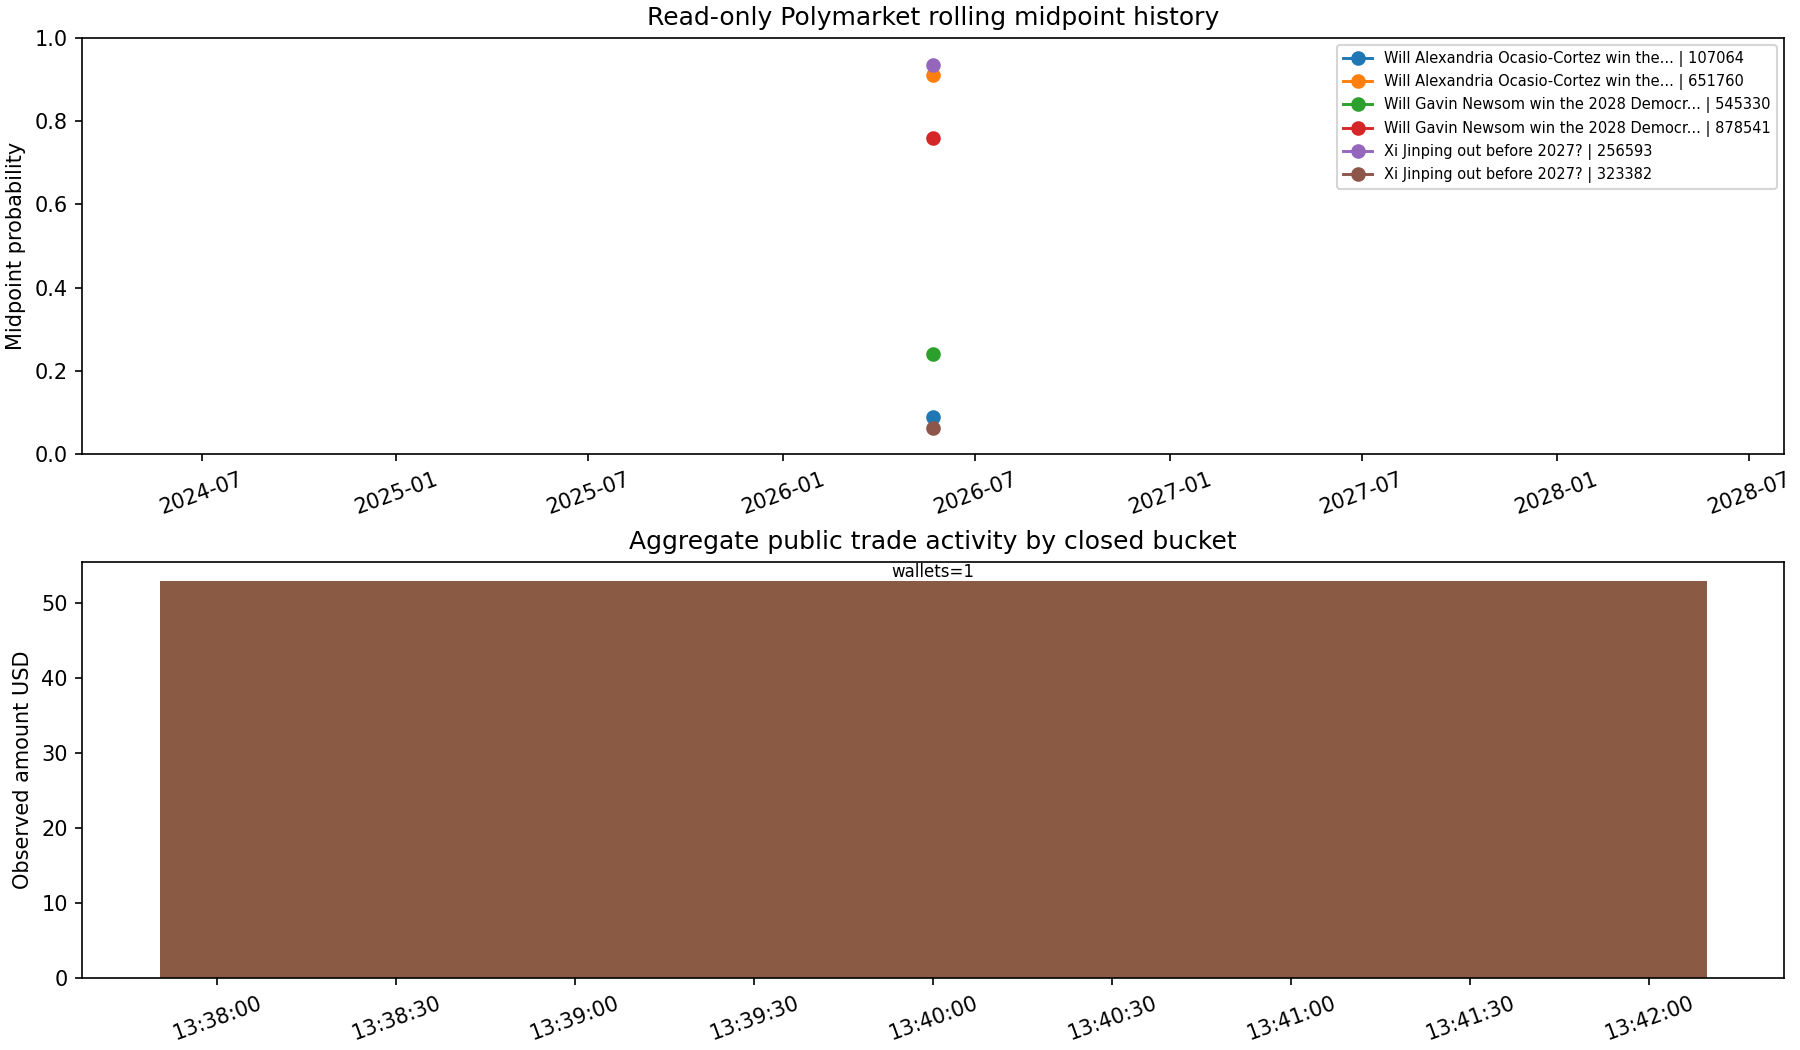
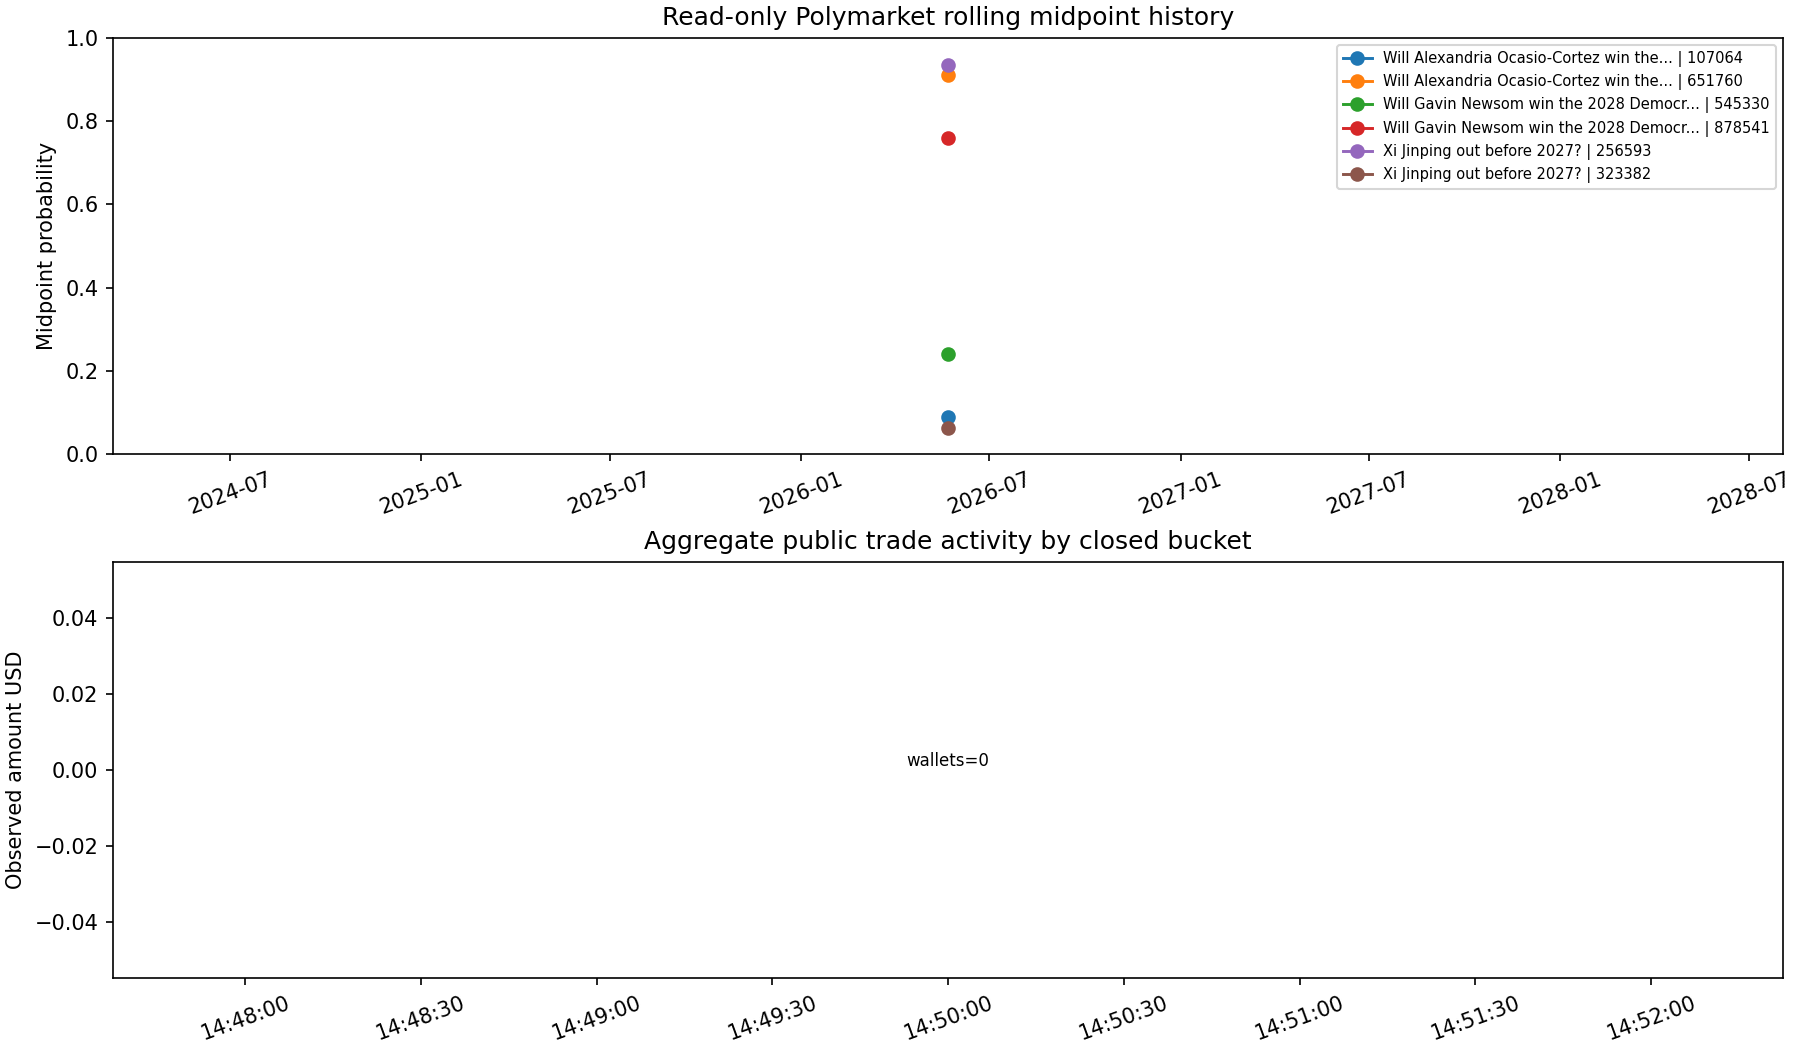
data: collect curated polymarket rolling baseline sample

diff --git a/STATUS.md b/STATUS.md
@@ -3,7 +3,7 @@
 <!-- PROJECT_STATUS:START -->
 ## Automation Snapshot
 
-Generated: 2026-05-22 16:49
+Generated: 2026-05-22 16:52
 
 Current goal: `goal-polymarket-curated-rolling-baseline-001` - Collect curated Polymarket rolling history for baseline readiness
 
@@ -11,63 +11,55 @@ Current roadmap phase: Phase 10: Politics/Geo Anomaly Monitor Prototype
 
 Test status: PASS
 
-Pytest summary: `270 passed in 16.85s`
+Pytest summary: `270 passed in 13.23s`
 
 Git branch: `main`
 
-Latest commit: `232bbf5`
+Latest commit: `540ef12`
 
 Git status:
 
 ```text
  M GOAL.md
  M ROADMAP.md
- M data/results/monitor_v2_live_alert_rows.csv
- M data/results/monitor_v2_live_alert_summary.csv
- M data/results/monitor_v2_live_scoring_metadata.json
- M data/results/monitor_v2_live_scoring_snapshots.csv
- M data/results/monitor_v2_live_scoring_validation_report.json
  M data/results/monitor_v2_polymarket_live_collection_metadata.json
- M data/results/monitor_v2_polymarket_live_figure_metadata.json
  M data/results/monitor_v2_polymarket_live_input_validation_report.json
  M data/results/monitor_v2_polymarket_live_market_snapshots.csv
- M data/results/monitor_v2_polymarket_live_snapshot.png
  M data/results/monitor_v2_polymarket_live_wallet_tier_snapshots.csv
  M data/results/monitor_v2_polymarket_live_watchlist.csv
+ M data/results/monitor_v2_polymarket_rolling_alert_rows.csv
+ M data/results/monitor_v2_polymarket_rolling_alert_summary.csv
+ M data/results/monitor_v2_polymarket_rolling_history.png
+ M data/results/monitor_v2_polymarket_rolling_history_figure_metadata.json
+ M data/results/monitor_v2_polymarket_rolling_history_metadata.json
+ M data/results/monitor_v2_polymarket_rolling_scoring_metadata.json
+ M data/results/monitor_v2_polymarket_rolling_scoring_snapshots.csv
+ M data/results/monitor_v2_polymarket_rolling_scoring_validation_report.json
  M docs/project/WORK_LOG.md
  M docs/research/STRATEGY_AGENT_ARCHITECTURE.md
- M operations/analysis/monitor_v2_live_input_scoring.py
- M operations/collectors/polymarket_readonly.py
- M operations/collectors/polymarket_rolling_history.py
- M tests/test_polymarket_readonly_collector.py
- M tests/test_polymarket_rolling_history.py
 ```
 
 Git diff stat:
 
 ```text
- GOAL.md                                            |  75 +++++++-------
- ROADMAP.md                                         |  18 ++--
- data/results/monitor_v2_live_alert_rows.csv        |  47 +++------
- data/results/monitor_v2_live_alert_summary.csv     |  21 ++--
- data/results/monitor_v2_live_scoring_metadata.json |  39 ++++---
- data/results/monitor_v2_live_scoring_snapshots.csv |  47 +++------
- .../monitor_v2_live_scoring_validation_report.json |  32 +++---
- ...tor_v2_polymarket_live_collection_metadata.json |  13 ++-
- ...monitor_v2_polymarket_live_figure_metadata.json |   8 +-
+ GOAL.md                                            |   7 ++++
+ ROADMAP.md                                         |   3 ++
+ ...tor_v2_polymarket_live_collection_metadata.json |   6 ++--
  ...v2_polymarket_live_input_validation_report.json |   2 +-
- ...monitor_v2_polymarket_live_market_snapshots.csv |  12 +--
- .../monitor_v2_polymarket_live_snapshot.png        | Bin 101641 -> 126856 bytes
- ...or_v2_polymarket_live_wallet_tier_snapshots.csv |   6 +-
- .../monitor_v2_polymarket_live_watchlist.csv       |   6 +-
- docs/project/WORK_LOG.md                           |  44 ++++++++
- docs/research/STRATEGY_AGENT_ARCHITECTURE.md       |  42 ++++++++
- .../analysis/monitor_v2_live_input_scoring.py      |  11 +-
- operations/collectors/polymarket_readonly.py       |  82 ++++++++++++---
- .../collectors/polymarket_rolling_history.py       |  10 ++
- tests/test_polymarket_readonly_collector.py        | 113 +++++++++++++++++++++
- tests/test_polymarket_rolling_history.py           |  49 +++++++++
- 21 files changed, 478 insertions(+), 199 deletions(-)
+ ...monitor_v2_polymarket_live_market_snapshots.csv |  12 +++----
+ ...or_v2_polymarket_live_wallet_tier_snapshots.csv |   6 ++--
+ .../monitor_v2_polymarket_live_watchlist.csv       |   6 ++--
+ .../monitor_v2_polymarket_rolling_alert_rows.csv   |  24 +++++++-------
+ ...monitor_v2_polymarket_rolling_alert_summary.csv |  24 +++++++-------
+ .../monitor_v2_polymarket_rolling_history.png      | Bin 99189 -> 100848 bytes
+ ...polymarket_rolling_history_figure_metadata.json |   2 +-
+ ...tor_v2_polymarket_rolling_history_metadata.json |   6 ++--
+ ...tor_v2_polymarket_rolling_scoring_metadata.json |   2 +-
+ ...tor_v2_polymarket_rolling_scoring_snapshots.csv |  24 +++++++-------
+ ...lymarket_rolling_scoring_validation_report.json |   2 +-
+ docs/project/WORK_LOG.md                           |  36 +++++++++++++++++++++
+ docs/research/STRATEGY_AGENT_ARCHITECTURE.md       |  29 +++++++++++++++++
+ 17 files changed, 134 insertions(+), 57 deletions(-)
 ```
 
 Blockers:

diff --git a/docs/project/WORK_LOG.md b/docs/project/WORK_LOG.md
@@ -2587,3 +2587,39 @@ Next step:
 
 - Collect bounded curated rolling-history samples until baseline readiness can
   be assessed.
+
+## 2026-05-22 - goal-polymarket-curated-rolling-baseline-001
+
+Task:
+
+- Run the first curated read-only Polymarket rolling-history sample and record
+  baseline readiness.
+
+Files changed:
+
+- `GOAL.md`
+- `ROADMAP.md`
+- `STATUS.md`
+- `docs/project/WORK_LOG.md`
+- `docs/research/STRATEGY_AGENT_ARCHITECTURE.md`
+- `data/results/monitor_v2_polymarket_live_*`
+- `data/results/monitor_v2_polymarket_rolling_*`
+
+Tests:
+
+- `.\.venv\Scripts\python.exe -m operations.collectors.polymarket_rolling_history --source live --samples 1 --reset --curated-watchlist-input data\monitor_v2_curated_watchlist.csv --max-markets 3` -> 1 bucket, 12 scoring rows, 0 alerts, `insufficient_baseline`.
+- Full test suite pending after status refresh.
+
+Decision:
+
+- Accept the first curated rolling-history sample as an end-to-end real-data
+  pipeline check.
+- Do not interpret 0 alerts as market quietness because only 1 closed bucket
+  exists and the rolling baseline is insufficient.
+- Do not synthesize future timestamps for empirical live-baseline claims; more
+  real elapsed time is needed.
+
+Next step:
+
+- Continue collecting additional real closed 5-minute buckets from the curated
+  watchlist until diagnostic baseline readiness changes.

diff --git a/docs/research/STRATEGY_AGENT_ARCHITECTURE.md b/docs/research/STRATEGY_AGENT_ARCHITECTURE.md
@@ -2525,6 +2525,35 @@ Next phase selected:
 - Collect bounded rolling-history samples from the accepted curated watchlist
   until metadata shows whether diagnostic baseline scoring is ready.
 
+### Curated Rolling-History Baseline Sample
+
+curated_rolling_baseline_status: first real bucket collected; insufficient baseline
+
+Implementation date: 2026-05-22
+
+Latest curated rolling run:
+
+- Source: read-only public Polymarket endpoints.
+- Watchlist source: accepted curated watchlist CSV.
+- Samples completed: 1.
+- Closed 5-minute buckets: 1.
+- Market count: 3.
+- Token midpoint rows: 6.
+- Aggregate wallet/activity rows: 3.
+- Scoring rows: 12.
+- Alerts: 0.
+- Baseline readiness: `insufficient_baseline`.
+- Figure: `data/results/monitor_v2_polymarket_rolling_history.png`.
+
+Interpretation:
+
+- This proves the curated rolling-history path can run end to end on real
+  public Polymarket data.
+- It does not prove that the market is quiet, because there is not enough
+  prior bucket history for rolling-baseline scoring.
+- Additional real elapsed time is required; synthetic timestamp shifting should
+  not be used for empirical live-baseline claims.
+
 ## First Prototype Specification
 
 strategy_prototype_status: specified

diff --git a/GOAL.md b/GOAL.md
@@ -73,6 +73,13 @@ next_commit: data: collect curated polymarket rolling baseline samples
   - 12 scoring rows,
   - 0 alerts,
   - scoring status `insufficient_baseline`.
+- The latest curated rolling-history run produced:
+  - 1 closed 5-minute bucket,
+  - 12 scoring rows,
+  - 0 alerts,
+  - baseline readiness `insufficient_baseline`.
+- More real elapsed time is required to collect distinct closed buckets without
+  lookahead.
 
 ## Done Means
 

diff --git a/ROADMAP.md b/ROADMAP.md
@@ -324,6 +324,9 @@ Done criteria:
 - The next implementation step is operational rather than methodological:
   collect enough distinct closed curated buckets for diagnostic rolling
   baselines.
+- The first curated rolling-history run produced 1 closed 5-minute bucket, 12
+  scoring rows, 0 alerts, and `insufficient_baseline`; more real elapsed time
+  is required for distinct buckets.
 
 Blockers:
 
